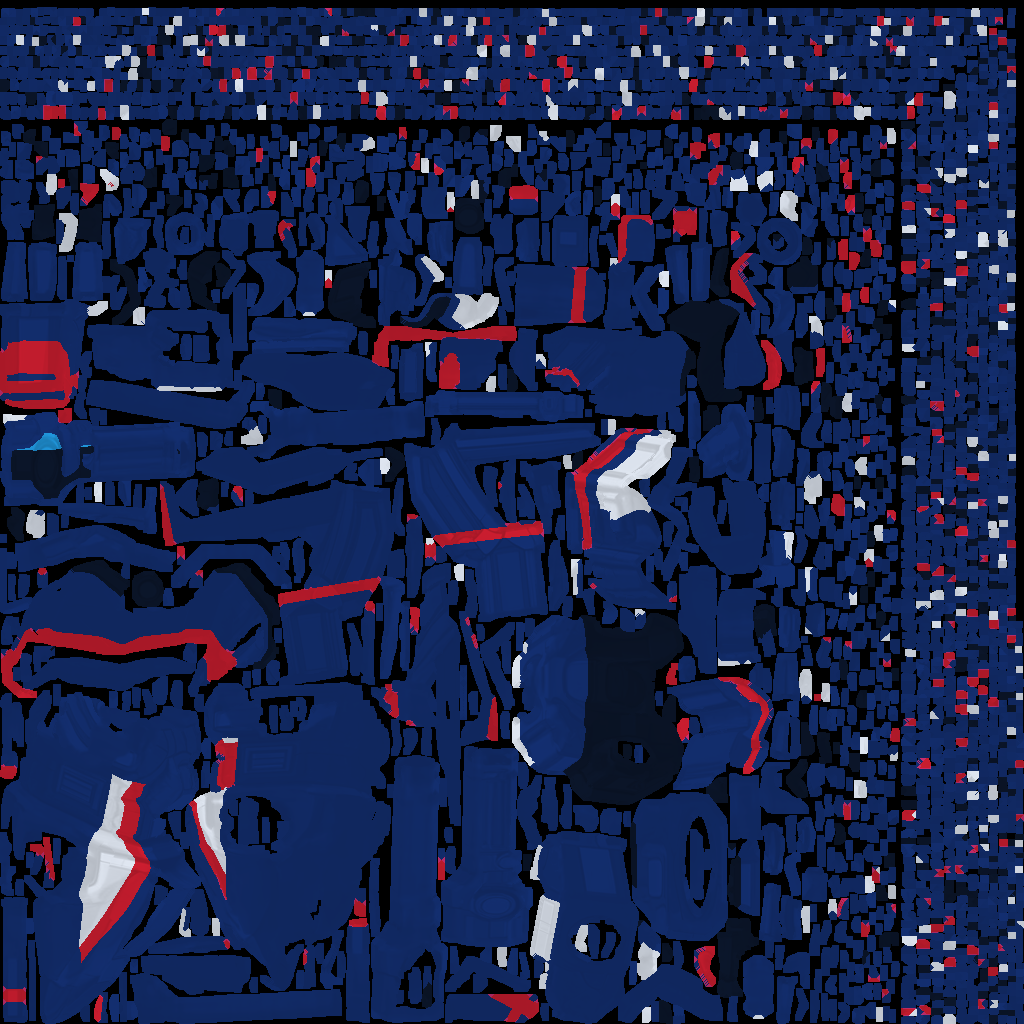
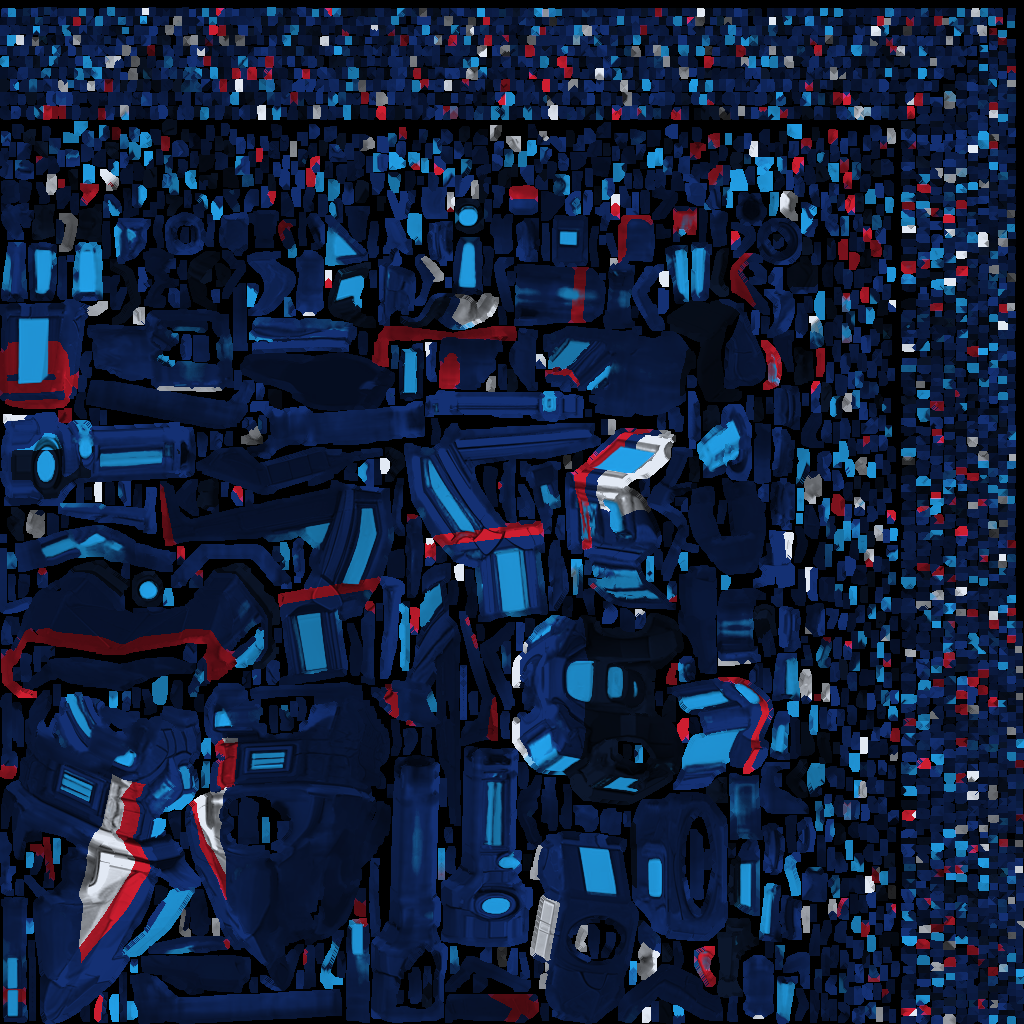
Restore Obsidian texture contrast and energy channels; keep preview inside frame

diff --git a/js/obsidian-design-preview.js b/js/obsidian-design-preview.js
@@ -1,7 +1,7 @@
 import * as THREE from 'three';
 import {GLTFLoader} from 'https://cdn.jsdelivr.net/npm/three@0.180.0/examples/jsm/loaders/GLTFLoader.js';
 import {loadObsidian,animateObsidian} from './obsidian-rig.js?v=308';
-import {applyObsidianSkin} from './obsidian-skins.js?v=504';
+import {applyObsidianSkin} from './obsidian-skins.js?v=505';
 import {fitPreviewModel} from './ship-preview-catalog.js?v=355';
 const $=id=>document.getElementById(id),host=$('viewer'),status=$('status');
 let model,turntable,auto=true,last=0,renderer,shaderFailed=false;
@@ -18,16 +18,26 @@ try{
  const resize=()=>{const w=host.clientWidth,h=host.clientHeight;camera.aspect=w/h;camera.zoom=Math.min(1.15,camera.aspect*1.35);camera.updateProjectionMatrix();renderer.setSize(w,h,false)};
  addEventListener('resize',resize);resize();
  model=await loadObsidian(THREE,new GLTFLoader());turntable=fitPreviewModel(THREE,model,'obsidian');scene.add(turntable);
- const paint=id=>{shaderFailed=false;applyObsidianSkin(THREE,model,id);for(const name of ['original','chile'])$(name).setAttribute('aria-pressed',String(name===id));renderer.compile(scene,camera);if(!shaderFailed)status.textContent=id==='chile'?'Prueba 504 · Chile: casco y cañones azules, placas blancas y núcleo suave.':'Diseño original · Misma geometría.';};
+ const paint=id=>{shaderFailed=false;applyObsidianSkin(THREE,model,id);for(const name of ['original','chile'])$(name).setAttribute('aria-pressed',String(name===id));renderer.compile(scene,camera);if(!shaderFailed)status.textContent=id==='chile'?'Prueba 505 · Chile: relieve y canales de energía recuperados.':'Diseño original · Misma geometría.';};
  $('original').onclick=()=>paint('original');$('chile').onclick=()=>paint('chile');
  const stopRotation=()=>{auto=false;$('spin').setAttribute('aria-pressed','false')};
  $('front').onclick=()=>{stopRotation();view(false)};$('rear').onclick=()=>{stopRotation();view(true)};
  $('spin').onclick=()=>{auto=!auto;$('spin').setAttribute('aria-pressed',String(auto))};
+ // Project the fitted model bounds, keeping every part inside the viewport.
+ const fitBox=new THREE.Box3(),corner=new THREE.Vector3();
+ const keepInFrame=()=>{
+  camera.updateMatrixWorld(true);turntable.updateWorldMatrix(true,true);fitBox.setFromObject(turntable);
+  let edge=0;
+  for(const x of [fitBox.min.x,fitBox.max.x])for(const y of [fitBox.min.y,fitBox.max.y])for(const z of [fitBox.min.z,fitBox.max.z]){
+   corner.set(x,y,z).project(camera);edge=Math.max(edge,Math.abs(corner.x),Math.abs(corner.y));
+  }
+  if(edge>.92){camera.zoom*=.92/edge;camera.updateProjectionMatrix()}
+ };
  let dragging=false,x=0;
  renderer.domElement.addEventListener('pointerdown',e=>{dragging=true;x=e.clientX;stopRotation();renderer.domElement.setPointerCapture(e.pointerId)});
  renderer.domElement.addEventListener('pointermove',e=>{if(dragging){turntable.rotation.y+=(e.clientX-x)*.012;x=e.clientX}});
  for(const event of ['pointerup','pointercancel','lostpointercapture'])renderer.domElement.addEventListener(event,()=>{dragging=false});
  paint('chile');
- function frame(now){const dt=last?Math.min((now-last)/1000,.05):0;last=now;if(!document.hidden){if(auto)turntable.rotation.y+=dt*.22;animateObsidian(model,dt,0);renderer.render(scene,camera)}requestAnimationFrame(frame)}
+ function frame(now){const dt=last?Math.min((now-last)/1000,.05):0;last=now;if(!document.hidden){if(auto)turntable.rotation.y+=dt*.22;animateObsidian(model,dt,0);keepInFrame();renderer.render(scene,camera)}requestAnimationFrame(frame)}
  requestAnimationFrame(frame);
 }catch(error){status.textContent='No se pudo cargar la vista 3D. Recarga la página para reintentar.';console.error(error)}

diff --git a/obsidian-design-preview.html b/obsidian-design-preview.html
@@ -3,9 +3,9 @@
 <style>
 *{box-sizing:border-box}body{margin:0;background:#080f1d;color:#f6eddb;font:16px system-ui,sans-serif}main{max-width:1100px;margin:auto;padding:20px}h1{font-size:25px;margin:0 0 8px}p{color:#bccbdb;line-height:1.5;margin:8px 0 16px}.tools{display:flex;gap:8px;flex-wrap:wrap;margin:12px 0}button,a{font:inherit}button{min-height:44px;padding:8px 16px;border:1px solid #9e824f;border-radius:7px;background:#1b2638;color:#f9efdb;cursor:pointer}button[aria-pressed="true"]{background:#e4b957;color:#111b29}button:focus-visible,a:focus-visible{outline:3px solid #6ce0ff;outline-offset:3px}#viewer{width:100%;height:min(68vh,660px);min-height:260px;background:#0a1426;border:1px solid #40506b;border-radius:12px;overflow:hidden}canvas{width:100%;height:100%;display:block;touch-action:pan-y}#status{min-height:24px}a{color:#a9e7ff}@media(max-height:500px){main{padding:10px}h1{font-size:20px}#viewer{height:64vh}.tools{margin:7px 0}}
 </style><script type="importmap">{"imports":{"three":"https://cdn.jsdelivr.net/npm/three@0.180.0/build/three.module.js"}}</script></head>
-<body><main><h1>Obsidian · Pintura de prueba</h1><p>Compara el modelo original con Chile. Arrastra la nave para girarla.</p>
+<body><main><h1>Obsidian · Pintura de prueba 505</h1><p>Compara el modelo original con Chile. Arrastra la nave para girarla.</p>
 <div class="tools" aria-label="Pintura"><button id="original" type="button" aria-pressed="false">Original</button><button id="chile" type="button" aria-pressed="true">Chile</button></div>
 <div id="viewer" aria-label="Vista 3D de Obsidian"></div>
 <div class="tools" aria-label="Vista"><button id="front" type="button">Vista delantera</button><button id="rear" type="button">Vista trasera</button><button id="spin" type="button" aria-pressed="true">Giro automático</button></div>
 <p id="status" role="status">Cargando el modelo original…</p><p>Se conserva la forma de la nave y el movimiento de ambos aros. Esta prueba no cambia tu partida.</p><a href="./index.html">Volver al juego</a>
-</main><script type="module" src="./js/obsidian-design-preview.js?v=504"></script></body></html>
+</main><script type="module" src="./js/obsidian-design-preview.js?v=505"></script></body></html>

diff --git a/js/obsidian-skins.js b/js/obsidian-skins.js
@@ -23,7 +23,7 @@ const chileTextures=new WeakMap();
 function chileTexture(THREE,part){
  if(!THREE.TextureLoader)return null;
  let textures=chileTextures.get(THREE);if(!textures){textures={};chileTextures.set(THREE,textures)}
- if(!textures[part]){const map=new THREE.TextureLoader().load('./assets/skins/obsidian-chile/'+part+'.png?v=504');map.flipY=false;map.colorSpace=THREE.SRGBColorSpace;textures[part]=map}
+ if(!textures[part]){const map=new THREE.TextureLoader().load('./assets/skins/obsidian-chile/'+part+'.png?v=505');map.flipY=false;map.colorSpace=THREE.SRGBColorSpace;textures[part]=map}
  return textures[part];
 }
 const baseMaterial=m=>originals.get(m)||m;
@@ -137,7 +137,7 @@ function recoloredMaterial(THREE,source,id,paintFrame,ring,reactor,part){
    `);
   };
   m.customProgramCacheKey=()=> 'obsidian-skin-v5-'+id;
-  if(id==='chile'&&m.isMeshStandardMaterial){m.metalnessMap=null;m.roughnessMap=null;m.metalness=.12;m.roughness=.82;}
+  if(id==='chile'&&m.isMeshStandardMaterial){m.metalness=.12;m.roughness=.82;}
   if(id==='colombia'&&m.isMeshStandardMaterial){m.metalness*=.65;m.roughness=Math.max(m.roughness,.65)}
  }else{
   // The procedural core and engines use untextured materials.

diff --git a/js/game3d.js b/js/game3d.js
@@ -31,8 +31,8 @@ import {shieldLevel,shieldCapacity,syncShield,applyShieldDamage,regenerateShield
 import {createTestProgressReset} from './test-progress-reset.js?v=363';
 import {laserLevel,laserSpeed,laserUpgradeCost,buyLaserUpgrade} from './laser-upgrade.js?v=358';
 import {fleetMultipliers,savedPveMultipliers,FLEET_BALANCE_VERSION} from './fleet-balance.js?v=450';
-import {OBSIDIAN_SKINS,allowedObsidianSkin,applyObsidianSkin,resetObsidianClone} from './obsidian-skins.js?v=504';
-import {startAssemblyPreview} from './assembly-3d-preview.js?v=504';
+import {OBSIDIAN_SKINS,allowedObsidianSkin,applyObsidianSkin,resetObsidianClone} from './obsidian-skins.js?v=505';
+import {startAssemblyPreview} from './assembly-3d-preview.js?v=505';
 import {PVP_MISSIONS,missionPrize} from './pvp-missions.js?v=443';
 import {setCombatArtwork,presentCombatButton,shipCombatArtwork} from './combat-buttons.js?v=389';
 import {rankedName} from './pvp-ranks.js?v=479';

diff --git a/index.html b/index.html
@@ -54,7 +54,7 @@ document.currentScript.after(threeMap);
 </script>
 <script type="module">
 const status=document.getElementById('bootStatus');
-const GAME_BUILD=window.COSMOS_GAME_BUILD='3d-20261116-504';
+const GAME_BUILD=window.COSMOS_GAME_BUILD='3d-20261116-505';
 let stopLoadingTips=()=>{};
 async function loadWithDeadline(promise,label){
  let timer;
@@ -120,7 +120,7 @@ try {
   };
   THREE.DefaultLoadingManager.onLoad=()=>{window.cosmosAssetsLoading=false};
   status.textContent='Motor 3D OK · cargando mundo…';
-  await loadWithDeadline(import('./js/game3d.js?v=504'),'el módulo del mundo 3D');
+  await loadWithDeadline(import('./js/game3d.js?v=505'),'el módulo del mundo 3D');
   status.remove();
   const overlay=document.getElementById('worldLoading');
   if(overlay){

diff --git a/js/assembly-3d-preview.js b/js/assembly-3d-preview.js
@@ -1,6 +1,6 @@
 import {effectBudget} from './effect-budget.js?v=440';
 import {GRAPHICS_KEY,initialGraphicsLevel} from './graphics-settings.js?v=438';
-import {applyObsidianSkin} from './obsidian-skins.js?v=504';
+import {applyObsidianSkin} from './obsidian-skins.js?v=505';
 import {loadObsidian,animateObsidian} from './obsidian-rig.js?v=308';
 import {SHIP_PREVIEWS,shipThumbnail,disposePreviewModel,fitPreviewModel} from './ship-preview-catalog.js?v=355';
 // Only one independent, demand-loaded WebGL preview is alive across the hangar.

diff --git a/tools/bake-obsidian-chile.py b/tools/bake-obsidian-chile.py
@@ -52,9 +52,16 @@ for name in (sys.argv[1:] or ['fighter','portal','inner-ring']):
             color[:]=WHITE;color[(np.floor((angle+np.pi)/(np.pi/3)).astype(int)%3)==0]=BLUE
             # Continuous inner and outer red rails, rather than atlas color speckles.
             color[(radius>outside-1.7)|(radius<outside-6.0)]=RED
-        # Keep engraved light/dark detail subtle; discard old gold/turquoise hues.
-        src=original[yy,xx];shade=.80+.20*src.max(axis=-1)/255
-        result=np.clip(color*shade[...,None],0,255).astype(np.uint8)
+        # Preserve original engraved panels, cavities and illuminated channels.
+        # These are authored UV details; do not flatten them to a 20% shade range.
+        src=original[yy,xx]/255.0
+        luminance=src@np.array([.2126,.7152,.0722])
+        shade=np.clip(.12+1.28*np.power(luminance,.72),.12,1.0)
+        painted=color*shade[...,None]
+        # Restore only the existing cyan windows/channels in their original UVs.
+        cyan=np.clip((np.minimum(src[:,:,1],src[:,:,2])-src[:,:,0]-.045)/.18,0,1)
+        energy=np.array([38,173,250])*(.45+.55*src.max(axis=-1))[...,None]
+        result=np.clip(painted*(1-cyan[...,None])+energy*cyan[...,None],0,255).astype(np.uint8)
         canvas[yy[mask],xx[mask]]=result[mask];coverage[yy[mask],xx[mask]]=255
     # Two texels of edge padding prevent dark seams during bilinear sampling.
     for _ in range(3):

diff --git a/docs/disenos-obsidian-admin.md b/docs/disenos-obsidian-admin.md
@@ -23,3 +23,5 @@ Las pruebas cubren autorización, aislamiento y restauración de materiales, con
 Se hornean tres texturas RGB de 1024×1024 en los UV originales mediante `tools/bake-obsidian-chile.py`. Las zonas de pintura se definen en coordenadas de cada pieza y se elimina la máscara de color dorado que provocaba manchas. Es pintura por zonas geométricas, no un trabajo manual de cada placa. Se conserva el relieve de los mapas originales y no se cambian posiciones, índices ni animaciones. El núcleo tiene bandas emisivas azules sin bloom. La vista de prueba ajusta la cámara al ancho del celular para evitar recortar la nave.
 
 Prueba 504: blanco limitado a placas superiores; cañones y motores azules, escapes oscuros y líneas de energía. Núcleo con filamentos irregulares suaves, visor ampliado y número de prueba visible para identificar caché antigua.
+
+Prueba 505: se recuperan la luminancia completa del atlas, los canales cian en sus UV originales y los mapas de rugosidad/metal originales. El visor reduce el zoom cuando la caja proyectada alcanza el borde. Sigue siendo una prueba procedimental, sin pintura manual de placas.
